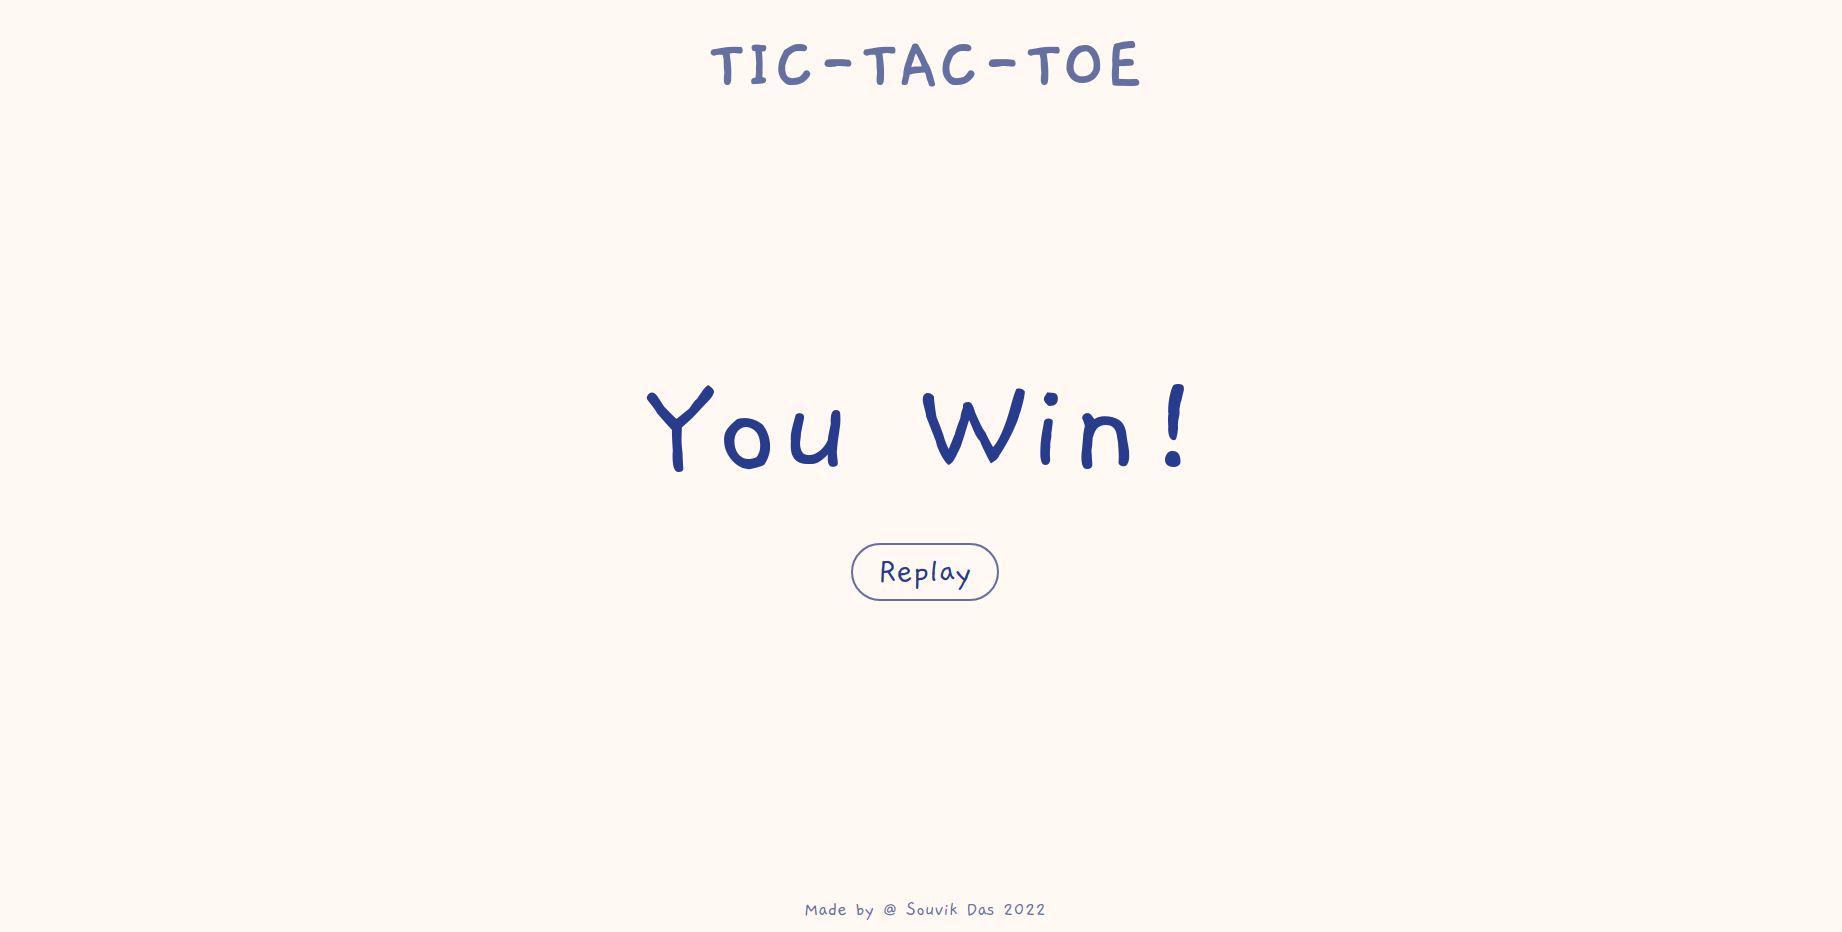
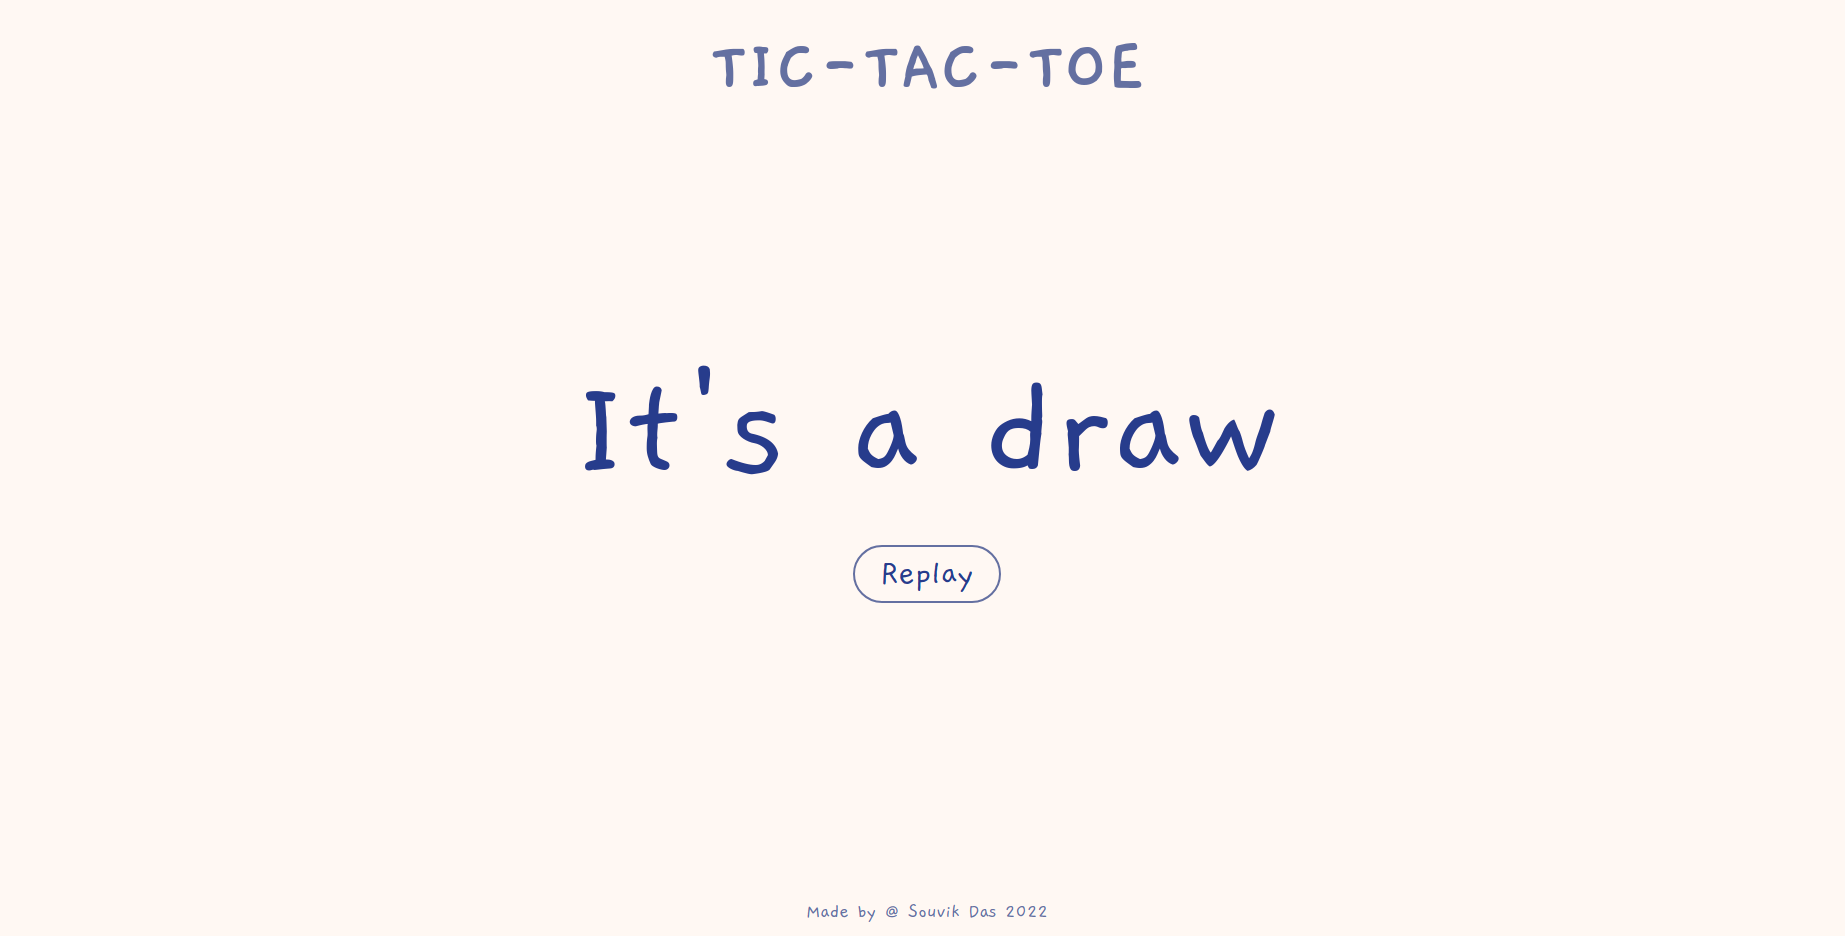
Optimized the game using Minimax Algorithm

diff --git a/src/script.js b/src/script.js
@@ -1,59 +1,117 @@
 const gameBoard = (() => {
     let board = ["", "", "", "", "", "", "", "", ""];
+
     const reset = () => {
         for (let i = 0; i < 9; i++) {
             board[i] = "";
         }
     }
+
+    const getBoard = () => {
+        return board;
+    }
+
     const getField = (index) => {
         return board[index];
     }
+
     const setField = (index, sign) => {
         board[index] = sign;
     }
-    return { setField, getField, reset }; 
+
+    return { setField, getBoard, getField, reset }; 
+
 })();
 
 const gameController = (() => {
-    let currentPlayer = 'X';
+
     let round = 1;
 
+    const lookup = {
+        O: 1, // ai
+        X: -1, // player
+        draw: 0 // draw game
+    }
+
     const playRound = (index) => {
-        gameBoard.setField(index, currentPlayer);
-        if (checkWinner(index)) {
-            displayController.showResult(currentPlayer);
+        gameBoard.setField(index, 'X'); // player turn
+        if (getWinner(gameBoard.getBoard()) !== null) {
+            displayController.showResult(getWinner(gameBoard.getBoard()));
             return;
         }
-        if (round === 9) {
-            displayController.showResult("draw");
-            return;
-        }
-        round++;
-        currentPlayer = 'O';
+        ++round;
         if (round < 9) {
-            let emptyFields = '';
-            for (let i = 0; i < 9; i++) {
-                if (gameBoard.getField(i) == '') {
-                    emptyFields += i;
-                }
-            }
-            let randomIndex = parseInt(emptyFields[Math.floor(Math.random() * emptyFields.length)]);
-            gameBoard.setField(randomIndex, currentPlayer);
-            if (checkWinner(randomIndex)) {
-                displayController.showResult(currentPlayer);
+            playAI(); // AI's turn
+            if (getWinner(gameBoard.getBoard()) !== null) {
+                displayController.showResult(getWinner(gameBoard.getBoard()));
                 return;
             }
-            if (round === 9) {
-                displayController.showResult("draw");
-                return;
-            }
-            round++;
-            currentPlayer = 'X';
-        } else {
-            displayController.showResult("draw");
+            ++round;
         }
     }
-    const checkWinner = (fieldIndex) => {
+
+    const playAI = () => {
+        let tttBoard = gameBoard.getBoard();
+        let bestScore = -Infinity, bestIndex;
+
+        for (let i = 0; i < 9; i++) {
+            if (tttBoard[i] === '') {
+                tttBoard[i] = 'O'; // make a move
+                let score = minimax(tttBoard, false);
+                if (score > bestScore) {
+                    bestScore = score;
+                    bestIndex = i;
+                }
+                tttBoard[i] = ''; // backtrack move
+            }
+        }
+        gameBoard.setField(bestIndex, 'O');
+    }
+
+    const calculateScore = (board) => {
+        let emptyFields = 1;
+        for (let i = 0; i < 9; i++) {
+            if (board[i] === '') {
+                emptyFields++;
+            }
+        }
+        return emptyFields;
+    }
+
+
+    function minimax(board, isMaximizing) {
+        let winner = getWinner(board);
+        if (winner !== null) {
+            return calculateScore(board) * lookup[winner];
+        }
+        if (isMaximizing) {
+            let bestScore = -Infinity;
+            for (let i = 0; i < 9; i++) {
+                if (board[i] == "") {
+                    board[i] = 'O'; // make move
+                    let score = minimax(board, false);
+                    board[i] = ''; // backtrack
+                    bestScore = Math.max(score, bestScore);
+                }
+            }
+            
+            return bestScore;
+        }
+        else {
+            let bestScore = Infinity;
+            for (let i = 0; i < 9; i++) {
+                if (board[i] == "") {
+                    board[i] = 'X'; // make a move
+                    let score = minimax(board, true);
+                    board[i] = ''; // backtrack
+                    bestScore = Math.min(score, bestScore);
+                }
+            }
+            return bestScore;
+        }
+    }
+
+    const getWinner = (board) => {
         const winCombinations = [
             // horizontal
             [0, 1, 2],
@@ -67,19 +125,35 @@ const gameController = (() => {
             [0, 4, 8],
             [2, 4, 6],
         ];
-        return winCombinations
-        .filter((combination) => combination.includes(fieldIndex))
-        .some((possibleCombination) =>
-            possibleCombination.every(
-            (index) => gameBoard.getField(index) === currentPlayer
-            )
-        );
+
+        // check if x won
+        let x_win = winCombinations.some(possibleCombination => possibleCombination.every(index => board[index] === 'X'));
+        if (x_win === true) {
+            return 'X';
+        }
+
+        // check if o won
+        let o_win = winCombinations.some(possibleCombination => possibleCombination.every(index => board[index] === 'O'));
+        if (o_win === true) {
+            return 'O';
+        }
+
+        // nobody won and there is still place for further moves
+        for (let i = 0;i < 9; i++) {
+            if (board[i] === '') {
+                return null;
+            }
+        }
+
+        // match is drawn
+        return 'draw';
     } 
+
     const reset = () => {
         round = 1;
-        currentPlayer = 'X';
     }
     return { playRound, reset };
+
 })();
 
 const displayController = (() => {
@@ -99,9 +173,11 @@ const displayController = (() => {
             }
         }
     }
+
     replay.addEventListener("click", () => {
         initiate();
     })
+
     fields.forEach(field => field.addEventListener("click", (e) => {
         if (e.target.innerHTML != '') {
             return;
@@ -109,6 +185,8 @@ const displayController = (() => {
         gameController.playRound(parseInt(e.target.id));
         updateGameboard();
     }))
+
+    // display result
     const showResult = (res) => {
         setTimeout(function() {
             gameWindow.style.display = "none";
@@ -124,6 +202,8 @@ const displayController = (() => {
         }, 200);
         
     }
+
+    // reset the game
     const initiate = () => {
         gameWindow.style.display = "flex";
         resultWindow.style.display = "none";
@@ -132,7 +212,9 @@ const displayController = (() => {
         gameController.reset();
         updateGameboard();
     }
+
     return { showResult, initiate };
+
 })();
 
 // start

diff --git a/README.md b/README.md
@@ -1,6 +1,8 @@
 ![Tic Tac Toe logo](./images/ttt-logo.png "Tic Tac Toe logo")
 
-This is a Tic Tac Toe game. It is a 1v1 match with the computer. See if you can win ;)
+This is a Tic-Tac-Toe game between you and the AI. AI plays the game using the **Minimax Algorithm**.
+
+Play 1v1 with the AI and see if you win!
 
 Live link: [Play Tic Tac Toe](https://whyucode.github.io/tic-tac-toe/)
 
